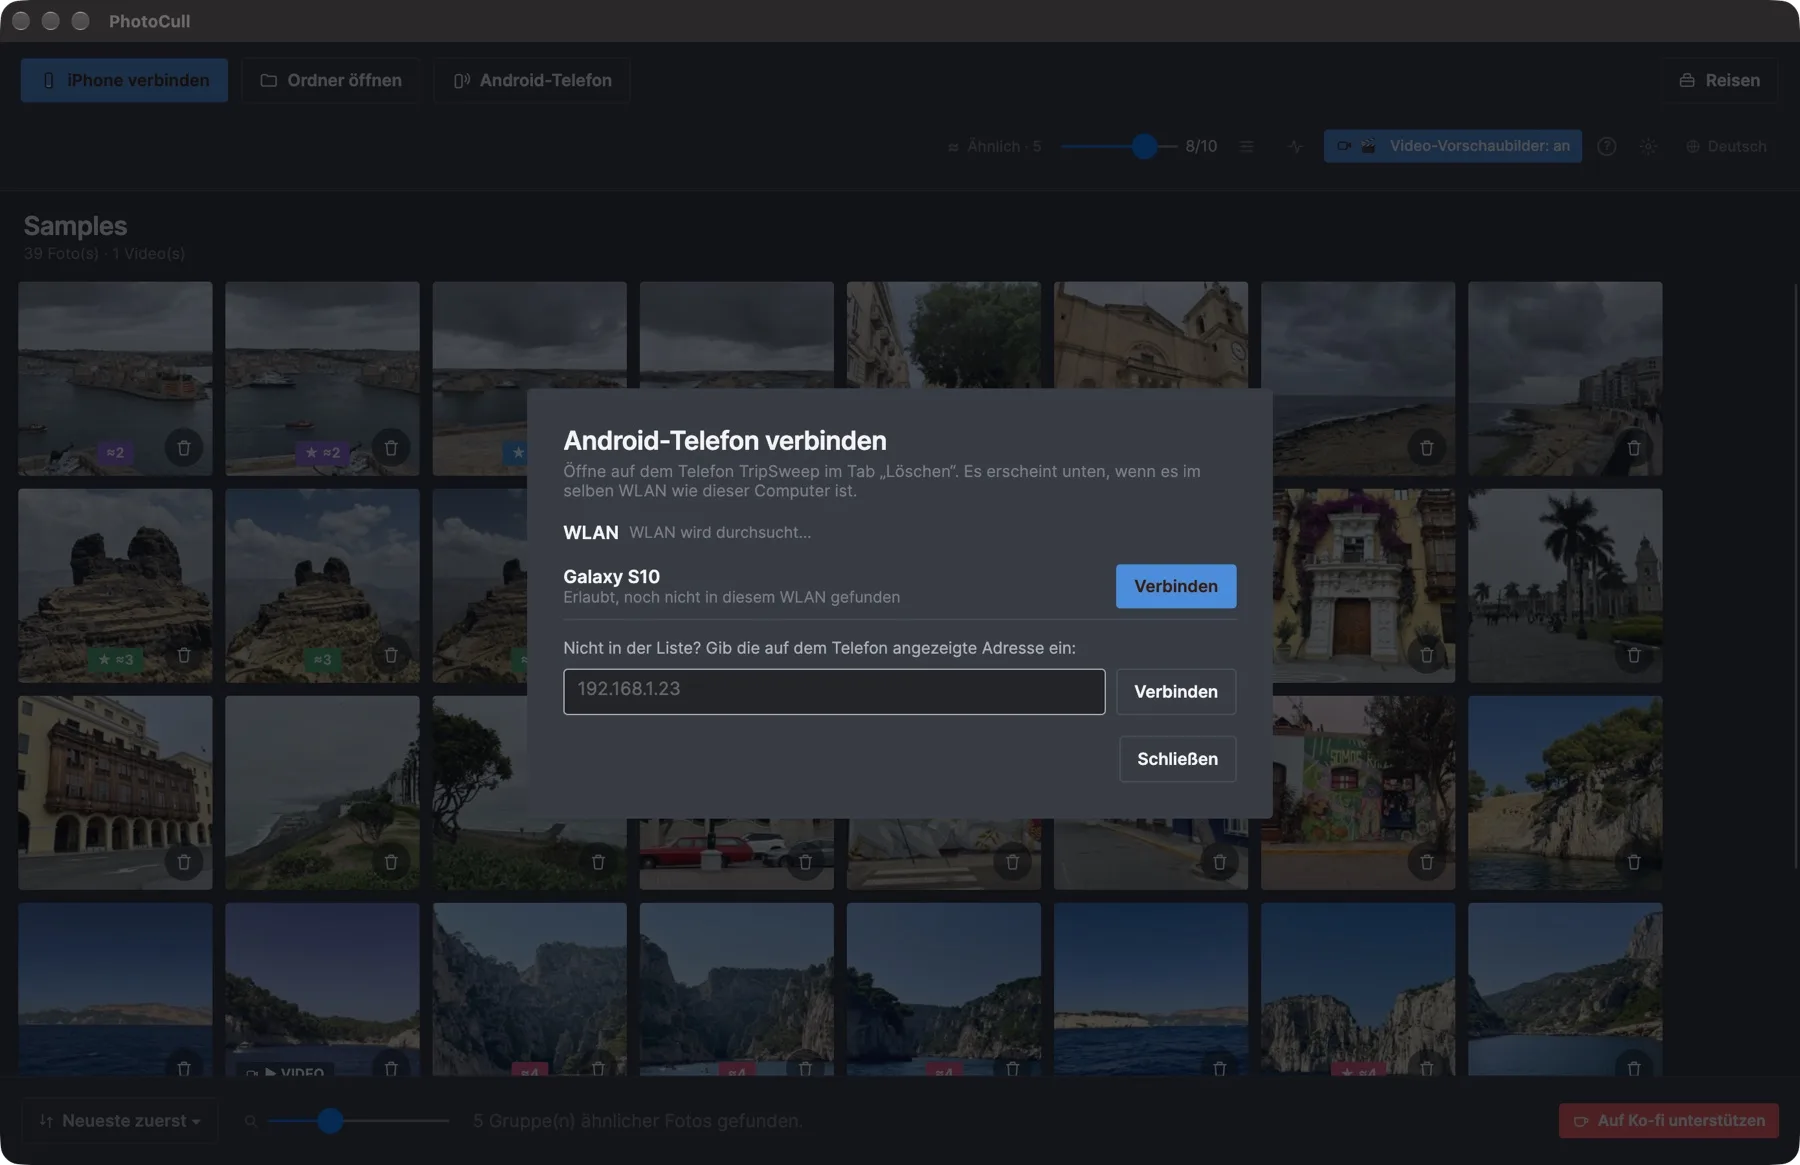
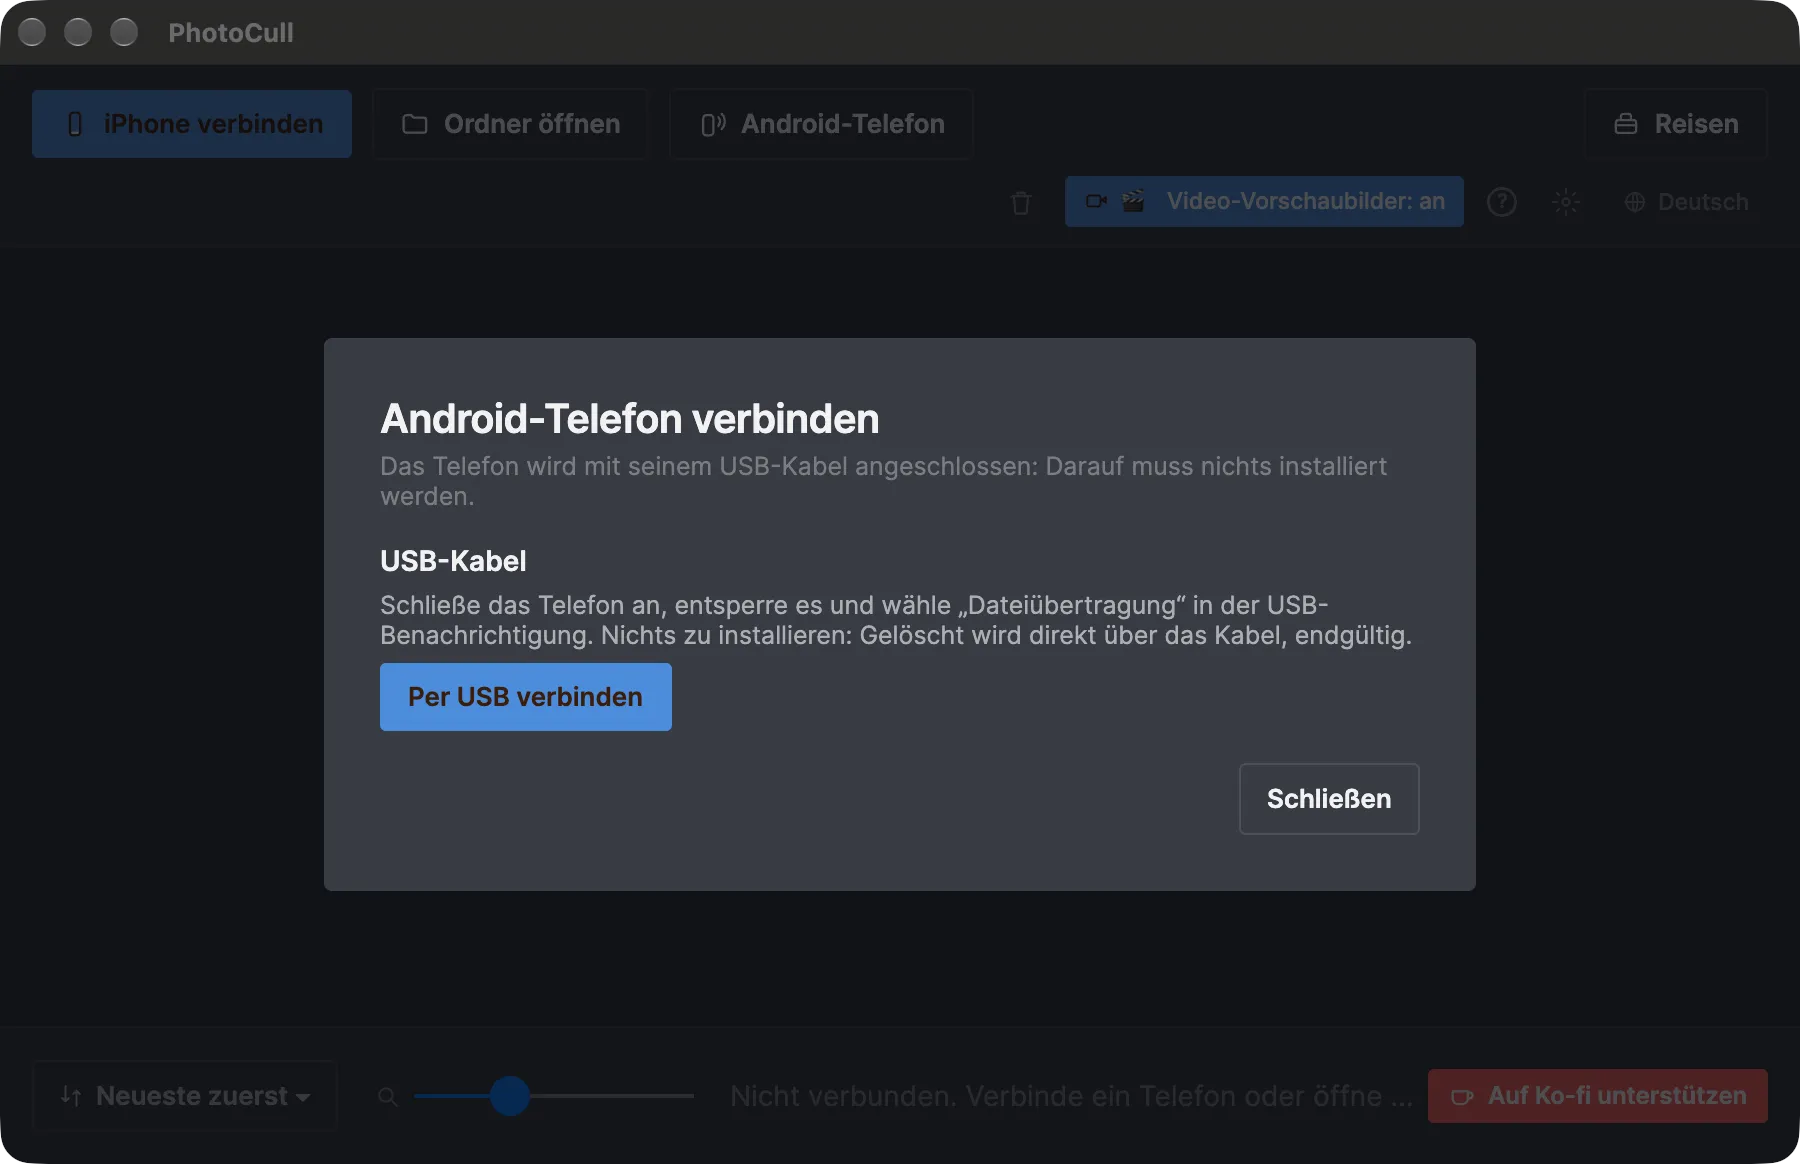
Android screenshot retaken: USB connection dialog (5 languages)

diff --git a/sites/web/de/index.html b/sites/web/de/index.html
@@ -82,6 +82,10 @@
           <a class="window-frame" href="../assets/screenshots/photocull-trips-de.jpg" target="_blank" rel="noopener"><img src="../assets/screenshots/photocull-trips-de.webp" width="1800" height="1165" alt="Deine Mediathek nach Aufenthalten gruppiert, mit dem Platz, den jeder belegt." loading="lazy" /></a>
           <figcaption>Deine Mediathek nach Aufenthalten gruppiert, mit dem Platz, den jeder belegt.</figcaption>
         </figure>
+        <figure>
+          <a class="window-frame" href="../assets/screenshots/photocull-android-de.jpg" target="_blank" rel="noopener"><img src="../assets/screenshots/photocull-android-de.webp" width="1800" height="1165" alt="Ein Android-Telefon mit seinem USB-Kabel anschließen: auf dem Telefon muss nichts installiert werden." loading="lazy" /></a>
+          <figcaption>Ein Android-Telefon mit seinem USB-Kabel anschließen: auf dem Telefon muss nichts installiert werden.</figcaption>
+        </figure>
       </div>
     </section>
 

diff --git a/sites/web/fr/index.html b/sites/web/fr/index.html
@@ -82,6 +82,10 @@
           <a class="window-frame" href="../assets/screenshots/photocull-trips-fr.jpg" target="_blank" rel="noopener"><img src="../assets/screenshots/photocull-trips-fr.webp" width="1800" height="1165" alt="Votre photothèque regroupée par séjour, avec la place que chacun occupe." loading="lazy" /></a>
           <figcaption>Votre photothèque regroupée par séjour, avec la place que chacun occupe.</figcaption>
         </figure>
+        <figure>
+          <a class="window-frame" href="../assets/screenshots/photocull-android-fr.jpg" target="_blank" rel="noopener"><img src="../assets/screenshots/photocull-android-fr.webp" width="1800" height="1165" alt="Branchez un téléphone Android avec son câble USB : rien à installer sur le téléphone." loading="lazy" /></a>
+          <figcaption>Branchez un téléphone Android avec son câble USB : rien à installer sur le téléphone.</figcaption>
+        </figure>
       </div>
     </section>
 

diff --git a/sites/web/it/index.html b/sites/web/it/index.html
@@ -82,6 +82,10 @@
           <a class="window-frame" href="../assets/screenshots/photocull-trips-it.jpg" target="_blank" rel="noopener"><img src="../assets/screenshots/photocull-trips-it.webp" width="1800" height="1165" alt="La tua libreria raggruppata per soggiorno, con lo spazio occupato da ciascuno." loading="lazy" /></a>
           <figcaption>La tua libreria raggruppata per soggiorno, con lo spazio occupato da ciascuno.</figcaption>
         </figure>
+        <figure>
+          <a class="window-frame" href="../assets/screenshots/photocull-android-it.jpg" target="_blank" rel="noopener"><img src="../assets/screenshots/photocull-android-it.webp" width="1800" height="1165" alt="Collega un telefono Android con il suo cavo USB: niente da installare sul telefono." loading="lazy" /></a>
+          <figcaption>Collega un telefono Android con il suo cavo USB: niente da installare sul telefono.</figcaption>
+        </figure>
       </div>
     </section>
 

diff --git a/sites/web/es/index.html b/sites/web/es/index.html
@@ -82,6 +82,10 @@
           <a class="window-frame" href="../assets/screenshots/photocull-trips-es.jpg" target="_blank" rel="noopener"><img src="../assets/screenshots/photocull-trips-es.webp" width="1800" height="1165" alt="Tu fototeca agrupada por estancia, con el espacio que ocupa cada una." loading="lazy" /></a>
           <figcaption>Tu fototeca agrupada por estancia, con el espacio que ocupa cada una.</figcaption>
         </figure>
+        <figure>
+          <a class="window-frame" href="../assets/screenshots/photocull-android-es.jpg" target="_blank" rel="noopener"><img src="../assets/screenshots/photocull-android-es.webp" width="1800" height="1165" alt="Conecta un teléfono Android con su cable USB: no hay que instalar nada en el teléfono." loading="lazy" /></a>
+          <figcaption>Conecta un teléfono Android con su cable USB: no hay que instalar nada en el teléfono.</figcaption>
+        </figure>
       </div>
     </section>
 

diff --git a/sites/web/index.html b/sites/web/index.html
@@ -82,6 +82,10 @@
           <a class="window-frame" href="assets/screenshots/photocull-trips-en.jpg" target="_blank" rel="noopener"><img src="assets/screenshots/photocull-trips-en.webp" width="1800" height="1165" alt="Your library grouped by trip, with the space each one takes." loading="lazy" /></a>
           <figcaption>Your library grouped by trip, with the space each one takes.</figcaption>
         </figure>
+        <figure>
+          <a class="window-frame" href="assets/screenshots/photocull-android-en.jpg" target="_blank" rel="noopener"><img src="assets/screenshots/photocull-android-en.webp" width="1800" height="1165" alt="Connect an Android phone with its USB cable: nothing to install on the phone." loading="lazy" /></a>
+          <figcaption>Connect an Android phone with its USB cable: nothing to install on the phone.</figcaption>
+        </figure>
       </div>
     </section>
 

diff --git a/generate.py b/generate.py
@@ -628,6 +628,7 @@ SHOTS = {
         ("review", "Review a group of similar photos side by side: keep the best, mark the rest."),
         ("compare", "Compare up to 6 photos at once in full screen."),
         ("trips", "Your library grouped by trip, with the space each one takes."),
+        ("android", "Connect an Android phone with its USB cable: nothing to install on the phone."),
     ],
 ),
 "fr": dict(
@@ -637,6 +638,7 @@ SHOTS = {
         ("review", "Passez en revue un groupe de photos similaires côte à côte : gardez la meilleure, marquez les autres."),
         ("compare", "Comparez jusqu'à 6 photos à la fois en plein écran."),
         ("trips", "Votre photothèque regroupée par séjour, avec la place que chacun occupe."),
+        ("android", "Branchez un téléphone Android avec son câble USB : rien à installer sur le téléphone."),
     ],
 ),
 "it": dict(
@@ -646,6 +648,7 @@ SHOTS = {
         ("review", "Rivedi un gruppo di foto simili affiancate: tieni la migliore, segna le altre."),
         ("compare", "Confronta fino a 6 foto alla volta a schermo intero."),
         ("trips", "La tua libreria raggruppata per soggiorno, con lo spazio occupato da ciascuno."),
+        ("android", "Collega un telefono Android con il suo cavo USB: niente da installare sul telefono."),
     ],
 ),
 "de": dict(
@@ -655,6 +658,7 @@ SHOTS = {
         ("review", "Eine Gruppe ähnlicher Fotos nebeneinander prüfen: das beste behalten, den Rest markieren."),
         ("compare", "Bis zu 6 Fotos gleichzeitig im Vollbild vergleichen."),
         ("trips", "Deine Mediathek nach Aufenthalten gruppiert, mit dem Platz, den jeder belegt."),
+        ("android", "Ein Android-Telefon mit seinem USB-Kabel anschließen: auf dem Telefon muss nichts installiert werden."),
     ],
 ),
 "es": dict(
@@ -664,6 +668,7 @@ SHOTS = {
         ("review", "Revisa un grupo de fotos similares una al lado de otra: conserva la mejor, marca el resto."),
         ("compare", "Compara hasta 6 fotos a la vez a pantalla completa."),
         ("trips", "Tu fototeca agrupada por estancia, con el espacio que ocupa cada una."),
+        ("android", "Conecta un teléfono Android con su cable USB: no hay que instalar nada en el teléfono."),
     ],
 ),
 }
